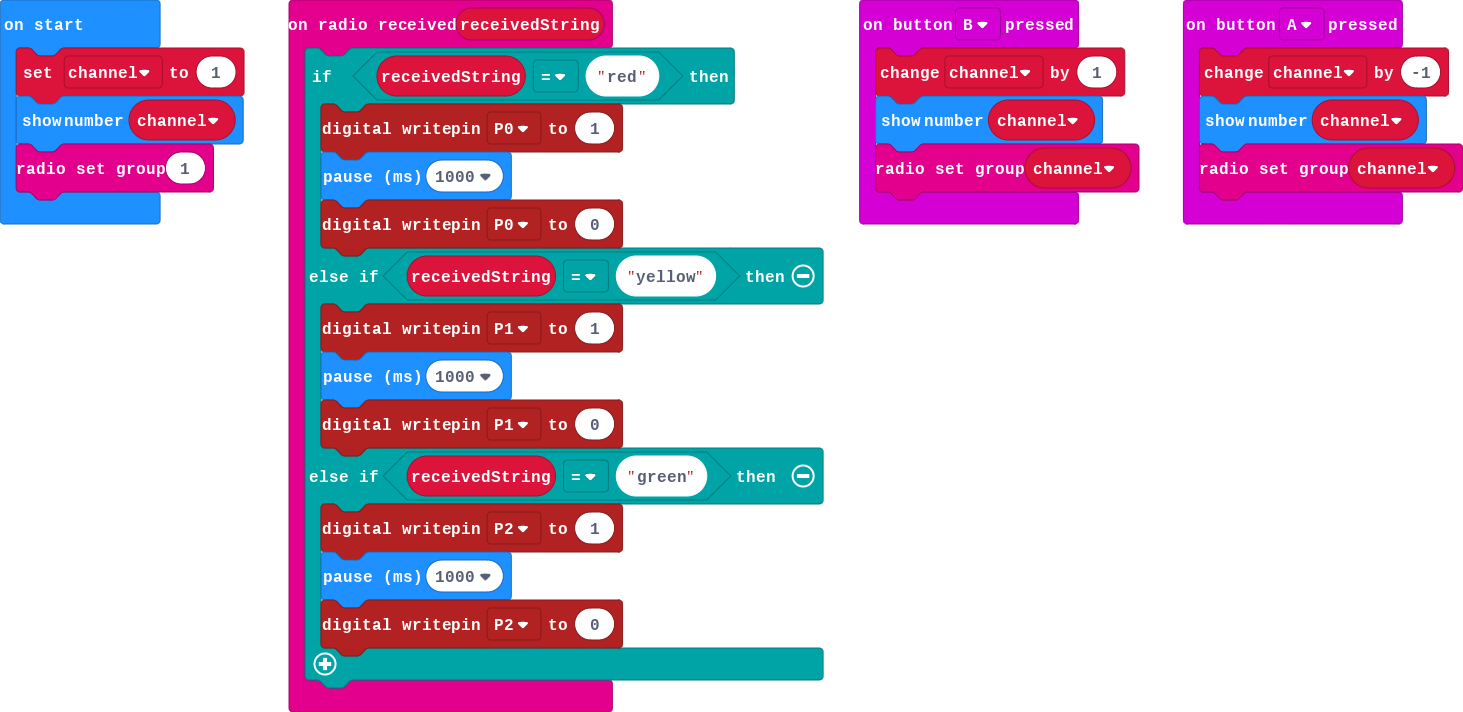
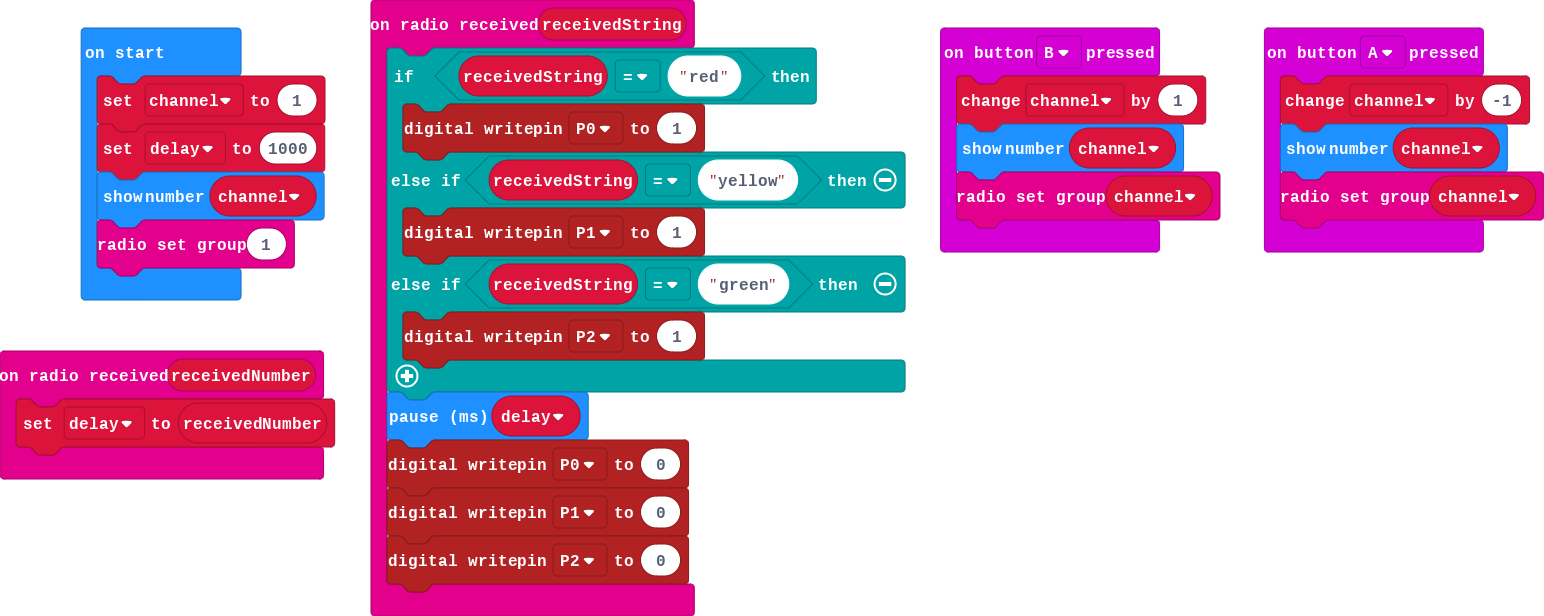
Update main.blocks, main.ts

diff --git a/main.ts b/main.ts
@@ -1,29 +1,32 @@
 radio.onReceivedString(function (receivedString) {
     if (receivedString == "red") {
         pins.digitalWritePin(DigitalPin.P0, 1)
-        basic.pause(1000)
-        pins.digitalWritePin(DigitalPin.P0, 0)
     } else if (receivedString == "yellow") {
         pins.digitalWritePin(DigitalPin.P1, 1)
-        basic.pause(1000)
-        pins.digitalWritePin(DigitalPin.P1, 0)
     } else if (receivedString == "green") {
         pins.digitalWritePin(DigitalPin.P2, 1)
-        basic.pause(1000)
-        pins.digitalWritePin(DigitalPin.P2, 0)
     }
+    basic.pause(delay)
+    pins.digitalWritePin(DigitalPin.P0, 0)
+    pins.digitalWritePin(DigitalPin.P1, 0)
+    pins.digitalWritePin(DigitalPin.P2, 0)
 })
 input.onButtonPressed(Button.B, function () {
     channel += 1
     basic.showNumber(channel)
     radio.setGroup(channel)
 })
+radio.onReceivedNumber(function (receivedNumber) {
+    delay = receivedNumber
+})
 input.onButtonPressed(Button.A, function () {
     channel += -1
     basic.showNumber(channel)
     radio.setGroup(channel)
 })
+let delay = 0
 let channel = 0
 channel = 1
+delay = 1000
 basic.showNumber(channel)
 radio.setGroup(1)
